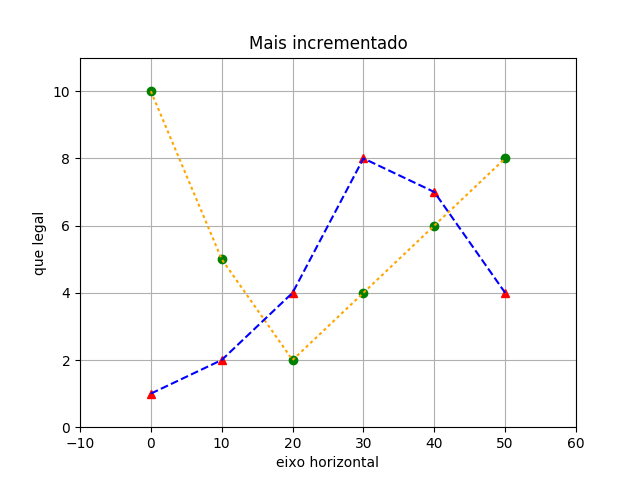
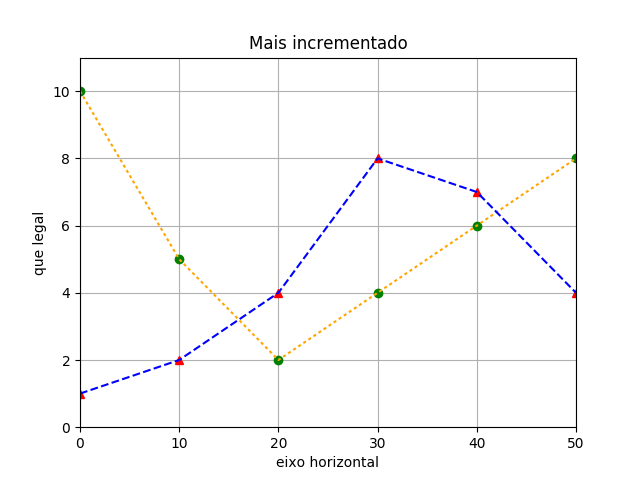
ajustando estrutura do gráfico

diff --git a/model/Finance.py b/model/Finance.py
@@ -28,7 +28,7 @@ def plotaGrafico(data1, data2):
     plt.plot(x, data1, 'k:', color='orange')  # linha pontilha orange
     plt.plot(x, data2, 'r^')  # red triangulo
     plt.plot(x, data2, 'k--', color='blue')  # linha tracejada azul
-    plt.axis([-10, 60, 0, 11])
+    plt.axis([0, 50, 0, 11])
     plt.title("Mais incrementado")
     plt.grid(True)
     plt.xlabel("eixo horizontal")
